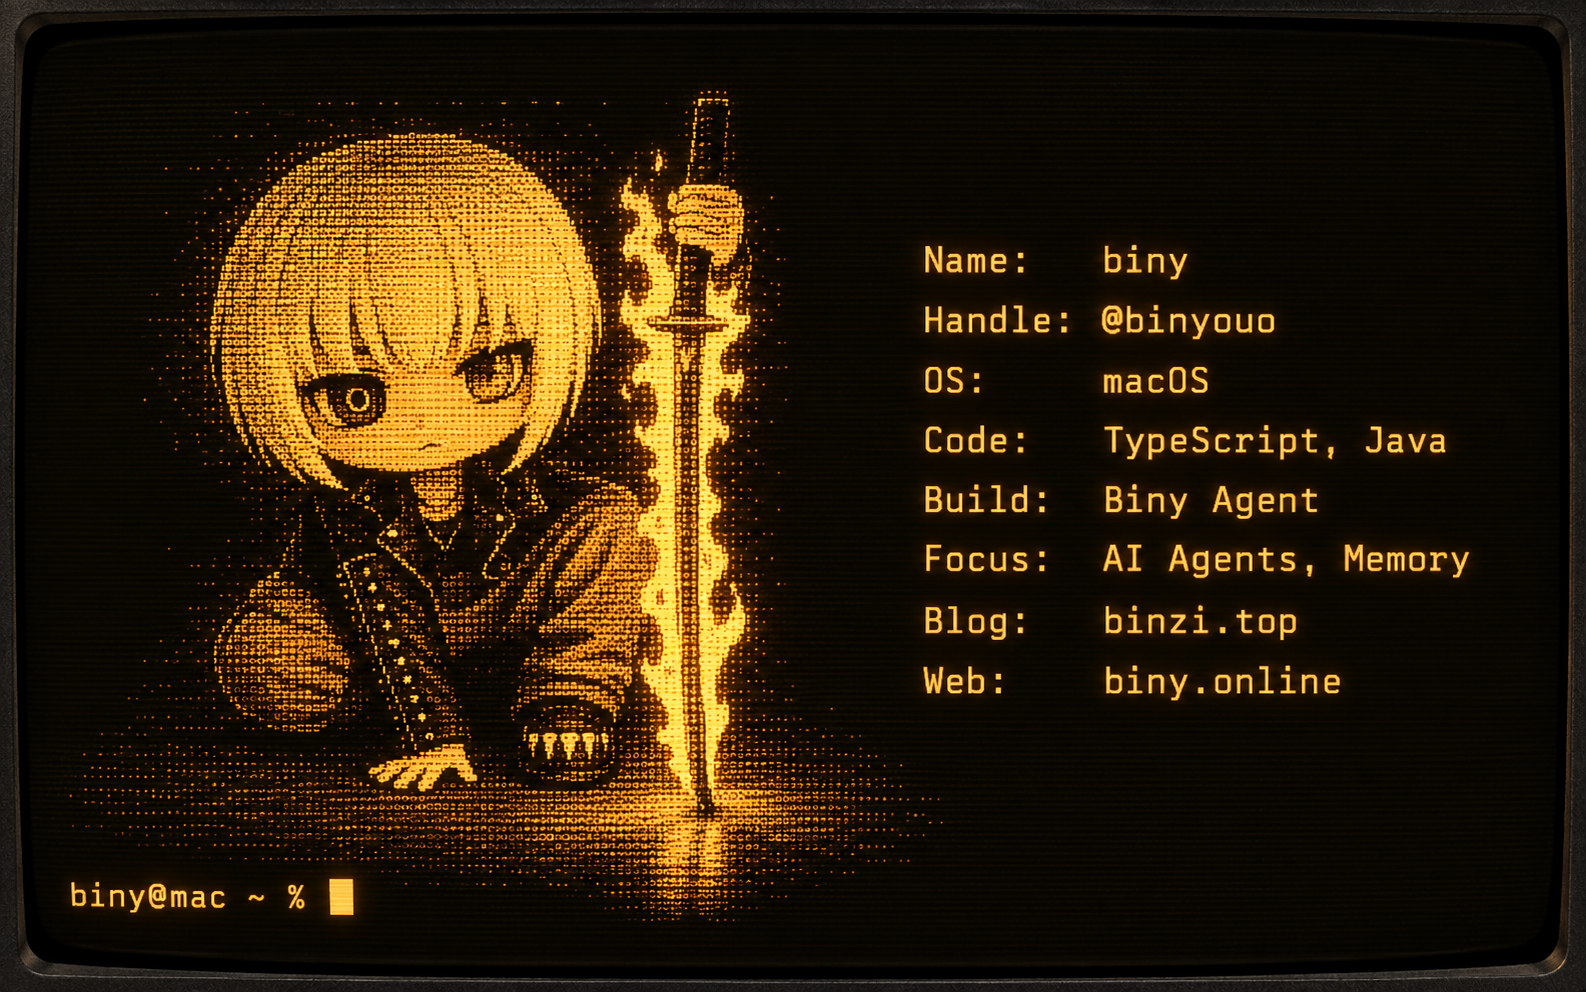
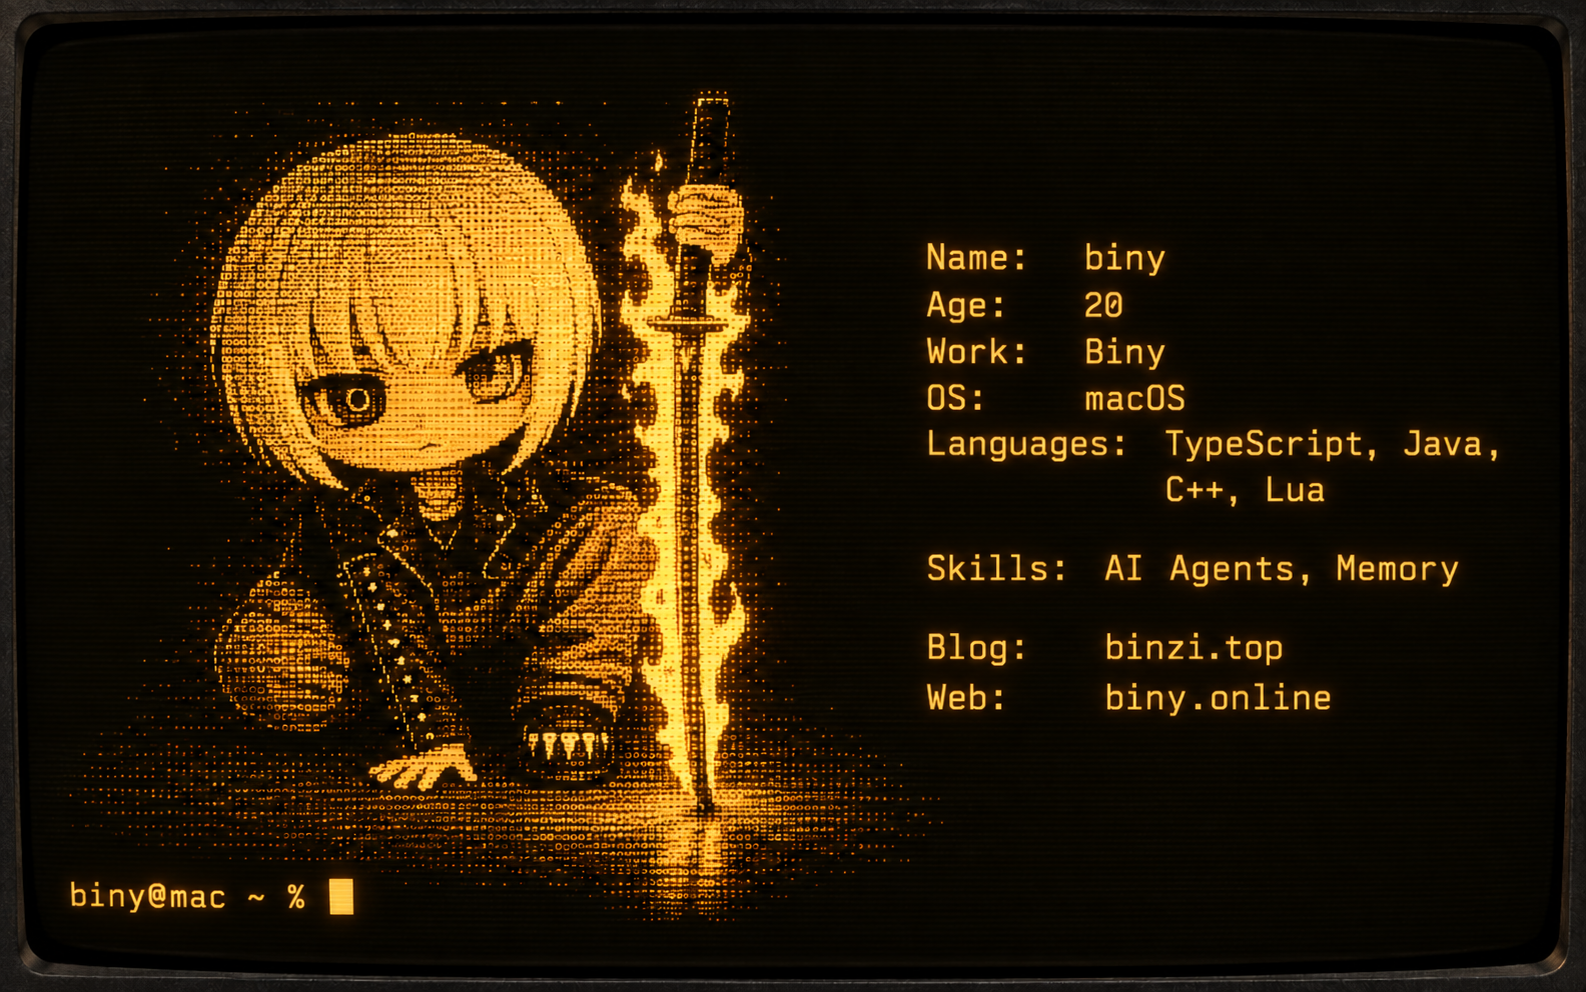
docs(profile): update age and programming languages

Changed region(s): [[0.0927, 0.0938, 0.5561, 0.9375], [0.5561, 0.25, 0.9578, 0.7188], [0.0927, 0.875, 0.1236, 0.9062]]

diff --git a/README.md b/README.md
@@ -1,5 +1,5 @@
-![biny（@binyouo）的暖金色复古终端：头像、macOS、TypeScript / Java、Biny Agent，以及博客 binzi.top 和官网 biny.online。](./assets/terminal.png)
+![biny（20 岁）的暖金色复古终端：头像、Biny、macOS，语言 TypeScript、Java、C++、Lua，技能 AI Agents、Memory，以及博客 binzi.top 和官网 biny.online。](./assets/terminal.png)
 
-兴趣使然者。目前在做 [Biny](https://github.com/binyouo/Biny-Agent)：本地优先、记忆优先的开发协作 Agent。
+兴趣使然者。
 
 [个人博客](https://binzi.top) · [Biny 官网](https://biny.online)
